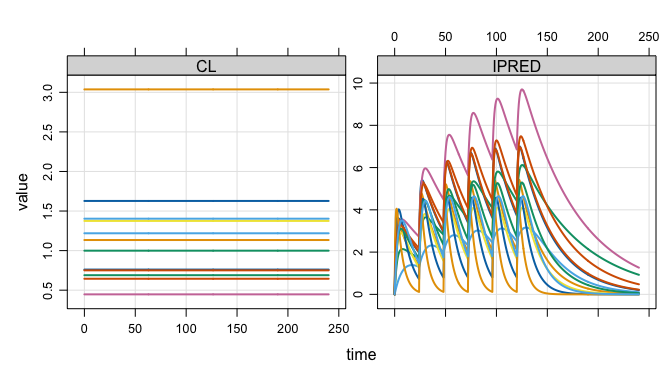
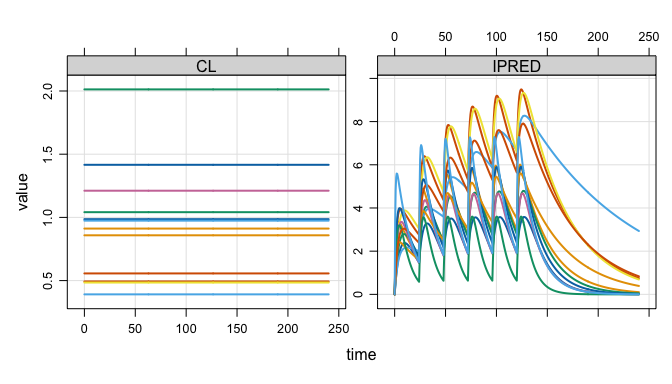
rebuild

diff --git a/README.md b/README.md
@@ -60,15 +60,15 @@ out
 . Dim  : 1.4M x 4
 . Files: 1 [13.2 Mb]
 . Owner: yes (gc)
-.     ID time        CL    IPRED
-. 1:   1  0.0 0.7602702 0.000000
-. 2:   1  0.0 0.7602702 0.000000
-. 3:   1  0.5 0.7602702 1.652283
-. 4:   1  1.0 0.7602702 2.591854
-. 5:   1  1.5 0.7602702 3.115756
-. 6:   1  2.0 0.7602702 3.397383
-. 7:   1  2.5 0.7602702 3.537947
-. 8:   1  3.0 0.7602702 3.596526
+.     ID time       CL     IPRED
+. 1:   1  0.0 1.416095 0.0000000
+. 2:   1  0.0 1.416095 0.0000000
+. 3:   1  0.5 1.416095 0.3212542
+. 4:   1  1.0 1.416095 0.6087663
+. 5:   1  1.5 1.416095 0.8653496
+. 6:   1  2.0 1.416095 1.0935984
+. 7:   1  2.5 1.416095 1.2959050
+. 8:   1  3.0 1.416095 1.4744749
 ```
 
 ## Very lightweight simulation output object
@@ -79,7 +79,7 @@ disk.
 
 ``` r
 basename(out$files)
-. [1] "mrgsims-ds-e1d922793925.parquet"
+. [1] "mrgsims-ds-12305f0786ae.parquet"
 ```
 
 This means there is almost nothing inside the object itself
@@ -124,23 +124,23 @@ head(out)
 . # A tibble: 6 × 4
 .      ID  time    CL IPRED
 .   <dbl> <dbl> <dbl> <dbl>
-. 1     1   0   0.760  0   
-. 2     1   0   0.760  0   
-. 3     1   0.5 0.760  1.65
-. 4     1   1   0.760  2.59
-. 5     1   1.5 0.760  3.12
-. 6     1   2   0.760  3.40
+. 1     1   0    1.42 0    
+. 2     1   0    1.42 0    
+. 3     1   0.5  1.42 0.321
+. 4     1   1    1.42 0.609
+. 5     1   1.5  1.42 0.865
+. 6     1   2    1.42 1.09
 
 tail(out)
 . # A tibble: 6 × 4
-.      ID  time    CL IPRED
-.   <dbl> <dbl> <dbl> <dbl>
-. 1  3000  238. 0.747 0.196
-. 2  3000  238  0.747 0.193
-. 3  3000  238. 0.747 0.190
-. 4  3000  239  0.747 0.187
-. 5  3000  240. 0.747 0.184
-. 6  3000  240  0.747 0.181
+.      ID  time    CL  IPRED
+.   <dbl> <dbl> <dbl>  <dbl>
+. 1  3000  238.  1.13 0.0139
+. 2  3000  238   1.13 0.0136
+. 3  3000  238.  1.13 0.0132
+. 4  3000  239   1.13 0.0128
+. 5  3000  240.  1.13 0.0125
+. 6  3000  240   1.13 0.0122
 
 dim(out)
 . [1] 1446000       4
@@ -154,16 +154,16 @@ as_tibble(out)
 . # A tibble: 1,446,000 × 4
 .       ID  time    CL IPRED
 .    <dbl> <dbl> <dbl> <dbl>
-.  1     1   0   0.760  0   
-.  2     1   0   0.760  0   
-.  3     1   0.5 0.760  1.65
-.  4     1   1   0.760  2.59
-.  5     1   1.5 0.760  3.12
-.  6     1   2   0.760  3.40
-.  7     1   2.5 0.760  3.54
-.  8     1   3   0.760  3.60
-.  9     1   3.5 0.760  3.61
-. 10     1   4   0.760  3.59
+.  1     1   0    1.42 0    
+.  2     1   0    1.42 0    
+.  3     1   0.5  1.42 0.321
+.  4     1   1    1.42 0.609
+.  5     1   1.5  1.42 0.865
+.  6     1   2    1.42 1.09 
+.  7     1   2.5  1.42 1.30 
+.  8     1   3    1.42 1.47 
+.  9     1   3.5  1.42 1.63 
+. 10     1   4    1.42 1.77 
 . # ℹ 1,445,990 more rows
 ```
 
@@ -189,16 +189,16 @@ as_duckdb_ds(out)
 . # Database: DuckDB 1.4.4 [kyleb@Darwin 24.6.0:R 4.5.2/:memory:]
 .       ID  time    CL IPRED
 .    <dbl> <dbl> <dbl> <dbl>
-.  1     1   0   0.760  0   
-.  2     1   0   0.760  0   
-.  3     1   0.5 0.760  1.65
-.  4     1   1   0.760  2.59
-.  5     1   1.5 0.760  3.12
-.  6     1   2   0.760  3.40
-.  7     1   2.5 0.760  3.54
-.  8     1   3   0.760  3.60
-.  9     1   3.5 0.760  3.61
-. 10     1   4   0.760  3.59
+.  1     1   0    1.42 0    
+.  2     1   0    1.42 0    
+.  3     1   0.5  1.42 0.321
+.  4     1   1    1.42 0.609
+.  5     1   1.5  1.42 0.865
+.  6     1   2    1.42 1.09 
+.  7     1   2.5  1.42 1.30 
+.  8     1   3    1.42 1.47 
+.  9     1   3.5  1.42 1.63 
+. 10     1   4    1.42 1.77 
 . # ℹ more rows
 ```
 
@@ -232,15 +232,15 @@ collect(dd)
 .     time  Mean     n
 .    <dbl> <dbl> <int>
 .  1   0    0     6000
-.  2   0.5  1.09  3000
-.  3   1    1.78  3000
-.  4   1.5  2.24  3000
-.  5   2    2.55  3000
-.  6   2.5  2.77  3000
-.  7   3    2.92  3000
-.  8   3.5  3.02  3000
-.  9   4    3.08  3000
-. 10   4.5  3.11  3000
+.  2   0.5  1.08  3000
+.  3   1    1.77  3000
+.  4   1.5  2.22  3000
+.  5   2    2.54  3000
+.  6   2.5  2.75  3000
+.  7   3    2.90  3000
+.  8   3.5  2.99  3000
+.  9   4    3.06  3000
+. 10   4.5  3.09  3000
 . # ℹ 471 more rows
 ```
 
@@ -268,15 +268,15 @@ out2
 . Dim  : 14.5M x 4
 . Files: 10 [131.8 Mb]
 . Owner: yes (gc)
-.     ID time       CL     IPRED
-. 1:   1  0.0 2.011944 0.0000000
-. 2:   1  0.0 2.011944 0.0000000
-. 3:   1  0.5 2.011944 0.3422578
-. 4:   1  1.0 2.011944 0.6355830
-. 5:   1  1.5 2.011944 0.8857928
-. 6:   1  2.0 2.011944 1.0980410
-. 7:   1  2.5 2.011944 1.2768933
-. 8:   1  3.0 2.011944 1.4263933
+.     ID time       CL    IPRED
+. 1:   1  0.0 1.621952 0.000000
+. 2:   1  0.0 1.621952 0.000000
+. 3:   1  0.5 1.621952 1.003836
+. 4:   1  1.0 1.621952 1.722505
+. 5:   1  1.5 1.621952 2.228838
+. 6:   1  2.0 1.621952 2.577299
+. 7:   1  2.5 1.621952 2.808610
+. 8:   1  3.0 1.621952 2.953214
 ```
 
 ``` r
@@ -291,11 +291,11 @@ All `arrow` files are stored in the `tempdir()` in parquet format
 ``` r
 list_temp()
 . 11 files [145 Mb]
-. - mrgsims-ds-e1d922793925.parquet
-. - mrgsims-ds-e2163c8b10e9.parquet
+. - mrgsims-ds-12305f0786ae.parquet
+. - mrgsims-ds-123622f0df393.parquet
 .    ...
-. - mrgsims-ds-e21a285960e5.parquet
-. - mrgsims-ds-e21a3e86f15.parquet
+. - mrgsims-ds-123661ba74eda.parquet
+. - mrgsims-ds-123662f01bf12.parquet
 ```
 
 This directory is eventually removed when the R session ends. Tools are
@@ -307,11 +307,11 @@ retain_temp(out2)
 
 list_temp()
 . 10 files [131.8 Mb]
-. - mrgsims-ds-e2163c8b10e9.parquet
-. - mrgsims-ds-e2164e03500c.parquet
+. - mrgsims-ds-123622f0df393.parquet
+. - mrgsims-ds-123623e1187a.parquet
 .    ...
-. - mrgsims-ds-e21a285960e5.parquet
-. - mrgsims-ds-e21a3e86f15.parquet
+. - mrgsims-ds-123661ba74eda.parquet
+. - mrgsims-ds-123662f01bf12.parquet
 ```
 
 We also put a finalizer on each object so that, when it goes out of
@@ -358,8 +358,8 @@ cleaned up.
 ``` r
 gc()
 .            used  (Mb) gc trigger  (Mb) limit (Mb) max used  (Mb)
-. Ncells  1959072 104.7    3760958 200.9         NA  3278767 175.2
-. Vcells 15256385 116.4   27369533 208.9      16384 27029926 206.3
+. Ncells  1959075 104.7    3761031 200.9         NA  3278812 175.2
+. Vcells 15256371 116.4   27369624 208.9      16384 27030006 206.3
 
 list_temp()
 . 2 files [26.4 Mb]
@@ -446,15 +446,15 @@ out[[1]]
 . Dim  : 876 x 4
 . Files: 1 [10.5 Kb]
 . Owner: no
-.     ID TIME       CL    IPRED
-. 1:   1  0.0 1.482949 0.000000
-. 2:   1  0.0 1.482949 0.000000
-. 3:   1  0.5 1.482949 0.662692
-. 4:   1  1.0 1.482949 1.167694
-. 5:   1  1.5 1.482949 1.549270
-. 6:   1  2.0 1.482949 1.834309
-. 7:   1  2.5 1.482949 2.043905
-. 8:   1  3.0 1.482949 2.194610
+.     ID TIME        CL     IPRED
+. 1:   1  0.0 0.5851238 0.0000000
+. 2:   1  0.0 0.5851238 0.0000000
+. 3:   1  0.5 0.5851238 0.1919530
+. 4:   1  1.0 0.5851238 0.3605374
+. 5:   1  1.5 0.5851238 0.5084903
+. 6:   1  2.0 0.5851238 0.6382288
+. 7:   1  2.5 0.5851238 0.7518871
+. 8:   1  3.0 0.5851238 0.8513501
 . [mrgsim.ds] pointer and source pid refreshed.
 ```
 
@@ -483,15 +483,15 @@ out
 . Dim  : 2,628 x 4
 . Files: 3 [31.4 Kb]
 . Owner: yes (gc)
-.     ID TIME       CL    IPRED
-. 1:   1  0.0 1.482949 0.000000
-. 2:   1  0.0 1.482949 0.000000
-. 3:   1  0.5 1.482949 0.662692
-. 4:   1  1.0 1.482949 1.167694
-. 5:   1  1.5 1.482949 1.549270
-. 6:   1  2.0 1.482949 1.834309
-. 7:   1  2.5 1.482949 2.043905
-. 8:   1  3.0 1.482949 2.194610
+.     ID TIME        CL     IPRED
+. 1:   1  0.0 0.5851238 0.0000000
+. 2:   1  0.0 0.5851238 0.0000000
+. 3:   1  0.5 0.5851238 0.1919530
+. 4:   1  1.0 0.5851238 0.3605374
+. 5:   1  1.5 0.5851238 0.5084903
+. 6:   1  2.0 0.5851238 0.6382288
+. 7:   1  2.5 0.5851238 0.7518871
+. 8:   1  3.0 0.5851238 0.8513501
 ```
 
 Now we have all three files collected in a single object that we can